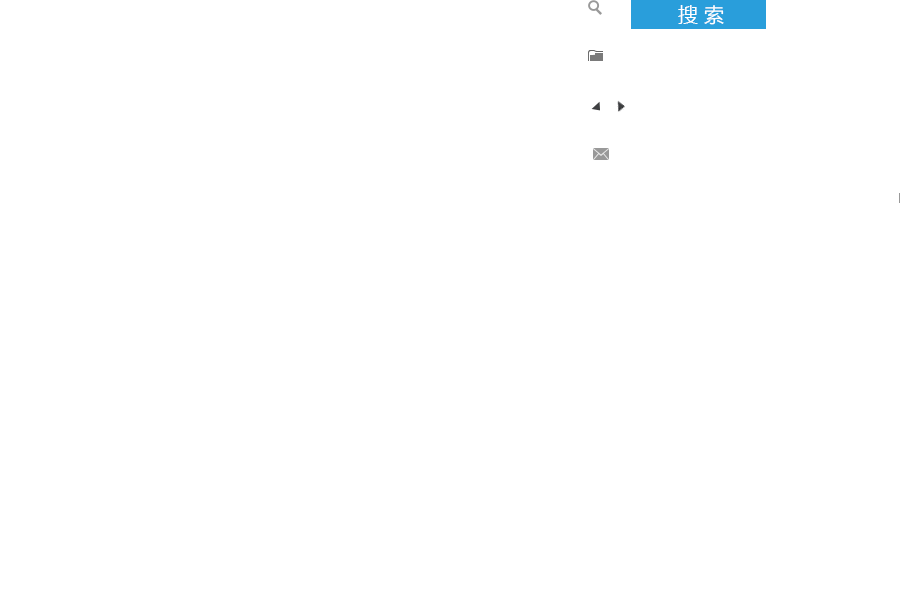
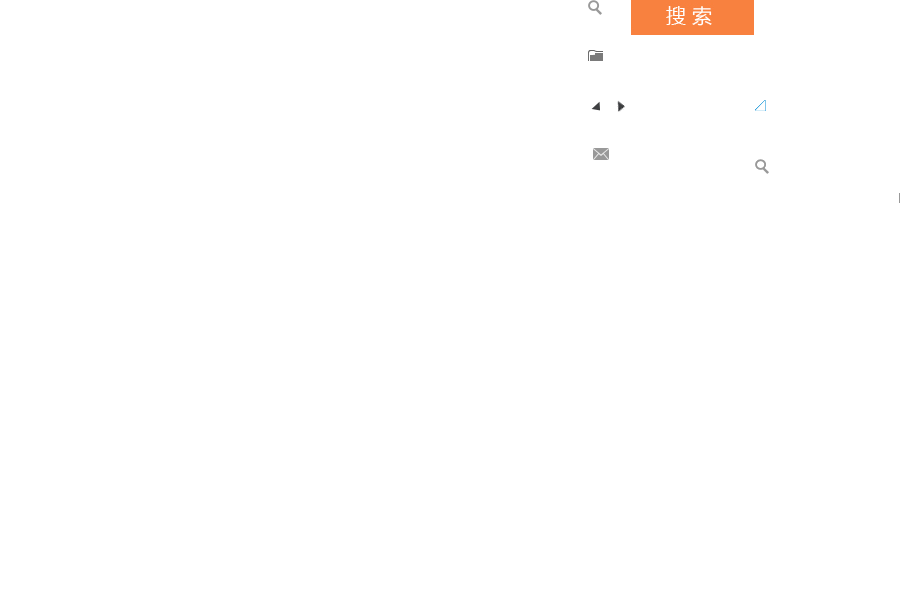
修改搜索框框

Changed region(s): [[0.6844, 0.0, 0.8711, 0.06], [0.84, 0.27, 0.8711, 0.3]]

diff --git a/beyondsoft-oa/assets/search.css b/beyondsoft-oa/assets/search.css
@@ -3,54 +3,91 @@
     float: right;
 }
 
-#search label.submit {
-    background-image: url(img/icon.png);
-}
-
 #search {
-    border: solid 4px #299edb;
-    width: 736px;
     position: relative;
+    z-index: 2;
+    width: 837px;
     margin-top: 30px;
 }
 
-#search input.keyword {
-    width: 589px;
-    height: 29px;
-    padding: 0 6px;
-    outline: none;
-    border: 0 none;
+#search .select {
+    float: left;
+    position: relative;
+    z-index: 9;
+    width: 112px;
+    border: solid 2px #299edb;
+    border-right: none;
+    height: 31px;
 }
 
-/*Tab*/
-#search div.control {
+#search .select input {
+    width: 112px;
+    padding: 0;
+    border: none;
+    background: #2a9edb url(./img/icon.png) -656px -81px no-repeat;
+    text-align: center;
+    color: #fff;
+    vertical-align: top;
+    height: 31px;
+    float: left;
+    line-height: 31px;
+}
+
+#search .select ul {
     position: absolute;
-    top: -30px;
-    left: -4px;
-}
-
-#search div.control a {
-    display: inline-block;
-    height: 26px;
-    padding: 0 10px;
+    left: -2px;
+    top: 33px;
     font-family: simsun, sans-serif;
     font-size: 12px;
+    text-align: center;
+    width: 114px;
+    line-height: 19px;
+    cursor: default;
+    display: none;
 }
 
-#search div.control a.current {
-    background-color: #299edb;
-    line-height: 26px;
+#search .select ul li:first-child {
+    border-top: none;
+}
+
+#search .select ul li {
+    background: #e9e9e9;
+    border-top: solid 1px #c8c8c8;
+}
+
+#search .select ul li:hover {
+    background: #2a9edb;
     color: #fff;
-    font-weight: bold;
+}
+
+#search label {
+    float: left;
+    vertical-align: top;
+}
+
+#search input.keyword {
+    width: 467px;
+    height: 31px;
+    padding: 0 6px 0 26px;
+    outline: none;
+    background: #eee url(./img/icon.png) -746px -150px no-repeat;
+    border: solid 2px #299edb;
+    border-left: none;
+    border-right: none;
+    font-size: 12px;
+    vertical-align: bottom;
+    float: left;
+    *line-height: 31px;
+    color: #565;
 }
 
 #search label.submit {
     position: absolute;
-    right: 0;
+    left: 613px;
     top: 0;
-    width: 135px;
-    height: 29px;
-    background-position: -631px 0;
+    width: 123px;
+    height: 35px;
+    background: url(./img/icon.png) -631px 0 no-repeat;
 }
 
 #search label.submit input {
@@ -61,3 +98,10 @@
     height: 29px;
 }
 
+#search .search-option {
+    position: absolute;
+    right: 28px;
+    top: 10px;
+    font-family: simsun, sans-serif;
+    font-size: 12px;
+}

diff --git a/beyondsoft-oa/list.html b/beyondsoft-oa/list.html
@@ -86,15 +86,21 @@
 
     <div id="main-content">
 
-        <form id="search" name="search">
-            <div class="control">
-                <a href="#code" class="current">流程代码</a>
-                <a href="#name">流程名称</a>
+        <form id="search" name="search" class="clearfix">
+            <div id="search-select" class="select">
+                <input type="text" value="ID" readonly="readonly" name="type">
+                <ul>
+                    <li>流程号</li>
+                    <li>AAAA</li>
+                    <li>BBBBB</li>
+                    <li>CCCC</li>
+                </ul>
             </div>
             <label for="keyword">
                 <input type="text" id="keyword" class="keyword" placeholder="请输入流程代码....">
             </label>
             <label for="submit" class="submit"><input id="submit" type="submit" value=""></label>
+            <a href="#" class="search-option">高级搜索</a>
         </form>
 
         <div class="workflow-table">
@@ -221,6 +227,7 @@
         </p>
     </div>
 </div>
-
+<script src="http://a.tbcdn.cn/s/kissy/1.3.0/kissy-min.js"></script>
+<script src="./assets/list.js"></script>
 </body>
 </html>

diff --git a/beyondsoft-oa/assets/list.js b/beyondsoft-oa/assets/list.js
@@ -1,0 +1,25 @@
+/**
+ * Created with JetBrains WebStorm.
+ * User: 松松
+ * Date: 13-4-18
+ * Time: 下午3:56
+ * To change this template use File | Settings | File Templates.
+ */
+
+KISSY.ready(function (S) {
+    var DOM = S.DOM, Event = S.Event;
+    var input = document.forms['search'].elements['type'];
+
+    var searchSelect = DOM.get('#search-select');
+    var ul = DOM.get('ul', searchSelect);
+    Event.on(searchSelect, 'click', function (ev) {
+        var target = ev.target;
+        if (target.nodeName === 'LI') {
+            input.value = S.trim(DOM.text(target));
+        }
+        DOM.hide(ul);
+    });
+    Event.on(searchSelect, 'mouseenter mouseleave', function (ev) {
+        ev.type === 'mouseenter' ? DOM.show(ul) : DOM.hide(ul);
+    })
+})

diff --git a/beyondsoft-oa/assets/table.css b/beyondsoft-oa/assets/table.css
@@ -5,7 +5,7 @@
 
 .workflow-table {
     color: #666;
-    margin-top: 20px ;
+    margin-top: 20px;
 }
 
 .workflow-table h2 {
@@ -17,6 +17,7 @@
     font-size: 14px;
     text-indent: 12px;
     position: relative;
+    z-index: 1;
 }
 
 .workflow-table h2 span.colspan {
